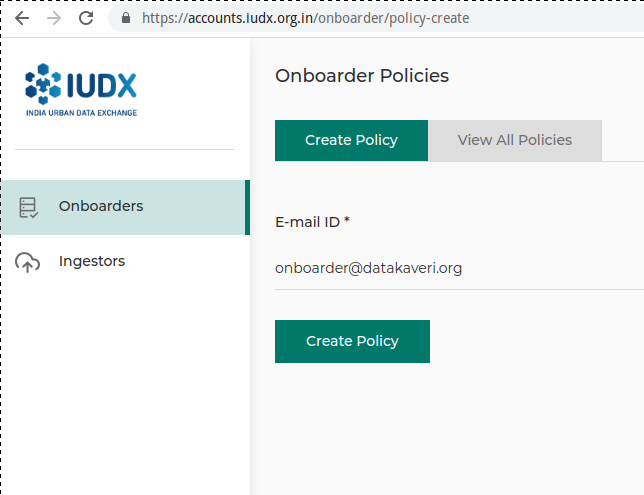
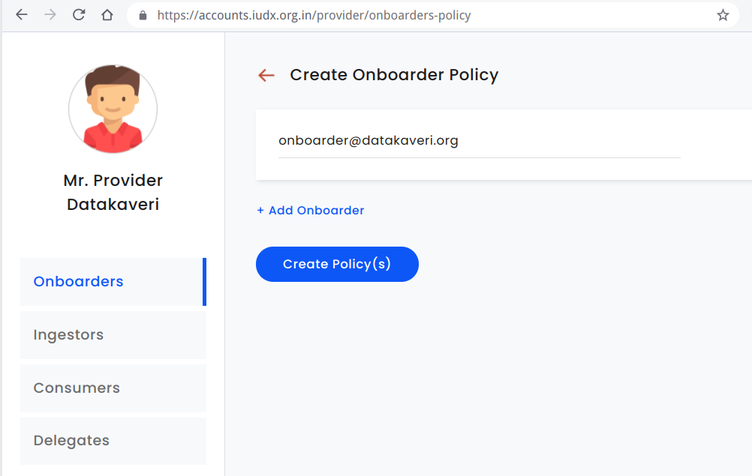
Updates for 2.5 + UI

diff --git a/getting_started/auth/consumer.md b/getting_started/auth/consumer.md
@@ -1,7 +1,7 @@
 # Getting Started: Consumer
 
 ## Introduction
-The IUDX Auth Consumer API is used to obtain consumer certificates and authorization tokens. The certificate is used to uniquely identify a consumer and is issued by the IUDX Certificate Authority. It can be obtained from the Registration API. The authorization tokens are obtained using the certificate, by specifying the resources which the consumer wants to access, along with the capabilities. Both these API flows are specified below.
+The IUDX Auth Consumer API is used to obtain consumer certificates and authorization tokens. The certificate is used to uniquely identify a consumer and is issued by the IUDX Certificate Authority. It can be obtained from the Registration API. The authorization tokens are obtained using the certificate, by specifying the resources which the consumer wants to access, along with the capabilities. Both these API flows are specified below. A consumer may view the resources they have been granted access to and obtain tokens using the [Accounts Panel](https://accounts.iudx.org.in)
 
 ## Registration
 A new consumer must register ([Consumer Registration Panel](https://accounts.iudx.org.in/register)) with the IUDX platform with some basic identification details. These details include their name, email address and phone number. Additionally, they should also generate a Certificate Signing Request (CSR) and include that in the API call. This CSR is used to generate a signed certificate which will be delivered to the email address they have specified.
@@ -21,72 +21,67 @@ This will generate 2 files: `privkey.pem` and `csr.pem`. Please send the content
 
 **Warning**: Please ensure the `privkey.pem` is stored securely. Do not share it. If this file is lost, then a new CSR + certificate will need to be created.
 
-## Obtaining Token
-A token can be obtained using the certificate which the consumer during the registration flow. These tokens have to be scoped to specific IUDX Resource Groups and actions associated with them. This can be done by specifying the Resource Group ID and the Resource Server API endpoints that the consumer wants to access, in the [Token Request API](https://authdocs.iudx.org.in/#operation/post-auth-v1-token). Whether the token is granted or not is dependent on whether the resource group/API endpoint is secure, and what policies have been set by the provider for the consumer. The Resource Server API endpoints which are available are:
+## Adding certificate to the browser
 
-* Latest Data
-`/ngsi-ld/v1/entities/<resource_group_id>`
-* Temporal Data
-`/ngsi-ld/v1/temporal/entities`
-* Complex GET
-`/ngsi-ld/v1/entities`
-* Complex POST
-`/ngsi-ld/v1/entityOperations/query`
-* Subscription Data
-`/ngsi-ld/v1/subscription`
+In order to use the Consumer Dashboard, the certificate needs to be added to the browser. The Chrome browser is preferred.
 
-Once the token is obtained, it can be used to call the Resource Server APIs.
-
-### curl command for Token API
-
-The following curl command can be used to request a token. Ensure that the command in the directory containing your certificate and private-key .PEM files. The `request` array can contain multiple objects that specify resource IDs and corresponding APIs for which access is desired. (For a token for access to the entire resource group, the resource group ID must be suffixed by `/*`)
+1. Convert the certificate and private key to the PKCS12 format, which is required to load it into the browser. To do this, make sure the private key and certificate files are in the same directory. Then run the following OpenSSL command, replacing <certificate file> with the name of the certificate file sent to you (e.g. cert.pem). When prompted for a password, you may add one, or just press Enter to leave the password blank.
 
 ```
-curl -XPOST https://authorization.iudx.org.in/auth/v1/token --cert <certificate-filename> --key <private-key-filename> -H 'content-type: application/json' -d "{
-   "request":[
-      {
-         "id":"<resource-id>",
-         "apis":[
-            <list-of-APIs-to-be-called-on-resource>
-         ]
-      }
-   ]
-}"
-
-```
-Example:
-
-```
-# Example Request
-
-curl -XPOST https://authorization.iudx.org.in/auth/v1/token --cert cert.pem --key private-key.pem -H 'content-type: application/json' -d "{
-   "request":[
-      {
-         "id":"datakaveri.org/04a15c9960ffda227e9546f3f46e629e1fe4132b/rs.iudx.org.in/pune-aqm/*",
-         "apis":[
-            "/ngsi-ld/v1/subscription"
-         ]
-      },
-      {
-         "id":"datakaveri.org/04a15c9960ffda227e9546f3f46e629e1fe4132b/rs.iudx.org.in/pune-flood/item-28819",
-         "apis":[
-            "/ngsi-ld/v1/entities",
-            "/ngsi-ld/v1/entities/datakaveri.org/04a15c9960ffda227e9546f3f46e629e1fe4132b/rs.iudx.org.in/pune-flood"
-         ]
-      }
-   ]
-}"
-
-# Example Response
-{
-    "token": "authorization.iudx.org.in/consumer@datakaveri.org/5d26f8526d75f5ed9407d7a808edac38",
-    "token-type": "IUDX",
-    "expires-in": 604800,
-    "is_token_valid": true,
-    "server-token": {
-        "rs.iudx.org.in": true
-    }
-}
-
+openssl pkcs12 -inkey privkey.pem -in <certificate file> -export -out certificate.p12
 ```
 
+2. Add the certificate.p12 file to the browser 
+    1. For Chrome in Linux -
+        1. Go to **Settings > Privacy and Security** and click **More**
+        2. Click the **Manage Certificates** option (Alternatively use the URL `chrome://settings/certificates` in the address bar)
+        3. Under the **Your Certificates** option, click **Import** and  to the `certificate.p12` file. Enter the password if you have set one
+
+		![Click Manage Certificates](../resources/auth/chrome-lin1.png)<br>
+		*Click Manage Certificates in the Privacy and Security tab in Chrome settings*
+
+		![Click Import](../resources/auth/chrome-lin2.png)<br>
+		*Import the certificate under the 'Your Certificates' option*
+
+    2. For Chrome in Windows -
+        1. Go to **Settings > Privacy and Security** and click **Security**
+        2. Click the **Manage Certificates** option
+        3. Under the **Personal** option, click Import and then click next when shown the **Certificate Import Wizard**, Click on browse and navigate to the `certificate.p12` file. Enter the password if you have set one
+        
+        ![Click Manage Certificates](../resources/auth/chrome-win1.png)<br>
+		*Click Manage Certificates in the Privacy and Security tab in Chrome settings*
+
+		![Use the Windows Certificate Import Wizard](../resources/auth/chrome-win2.png)<br>
+		*Use the Windows Certificate Import Wizard to import your certificate*
+		
+		![Click Import](../resources/auth/chrome-win3.png)<br>
+		*Click Import under the 'Personal' option*
+
+    3. For Chrome in Mac OS, you can follow the instructions in [this](https://www.digicert.com/kb/managing-client-certificates.htm#chrome_import_cert_2) link
+
+After this, when going to the [Accounts Panel](https://accounts.iudx.org.in), the certificate dialog will appear. Once the correct certificate is chosen, you will be prompted to enter the Provider Dashboard.
+
+![Choose the certificate and click OK](../resources/auth/cert-dialog.png)<br>
+*Dialog to choose certificate in Chrome*
+
+![Prompt to enter Consumer Dashboard](../resources/auth/login-cons.png)<br>
+*Prompt to enter Consumer Dashboard*
+
+**If a certificate is not chosen, then the API may not be called correctly. You will have to restart your browser, or open an Incognito/Private session and try again.**
+
+## View Resources and get Tokens
+
+A Consumer may view the resources and capabilities they have been given access to by various Providers. API access (temporal search, attribute search, complex queries, latest data etc.) or subscription can be granted. Consumers may select resources to generate a token.
+
+![View resources that consumer has access to](../resources/auth/view-resources.png)<br>
+*View resources that consumer has access to*
+
+![Generate token for selected resources](../resources/auth/get-token.png)<br>
+*Generate token for selected resources*
+
+A Consumer may also view their issued tokens (each token is identified by the UUID). For more details on the _status_ of the token and associated resources, please read the documentation for the [GET /auth/v1/token API](https://authdocs.iudx.org.in/v2.5/#operation/get-auth-v1-token)
+
+![Generate token for selected resources](../resources/auth/view-tokens.png)<br>
+*Generate token for selected resources*
+
+For additional token operations, please read the [documentation](https://authdocs.iudx.org.in/v2.5).

diff --git a/getting_started/auth/producer.md b/getting_started/auth/producer.md
@@ -2,11 +2,11 @@
 
 ## Introduction
 
-The IUDX Auth Provider API is used to obtain provider certificates and authorization tokens. The certificate is used to uniquely identify a provider and is issued by the IUDX Certificate Authority through the Registration API. Using the certificate, a provider can manage access to the secure resources they own and audit the access tokens issued for their resources. (Providers Panel)
+The IUDX Auth Provider API is used to obtain provider certificates and authorization tokens. The certificate is used to uniquely identify a provider and is issued by the IUDX Certificate Authority through the Registration API. Using the certificate, a provider can manage access to the secure resources they own via the [Accounts Panel](https://accounts.iudx.org.in)
 
 ## Registration
 
-The IUDX Admin team will initiate a provider registration by first creating an entry for the provider’s organization. A new provider must then register ([Registration Panel](accounts.iudx.org.in/register)) with the IUDX platform with some basic identification details. These details include their name, organization email address and phone number. Additionally, they should also generate a Certificate Signing Request (CSR) and include that in the API call. This CSR is used to generate a signed certificate which will be delivered to the email address they have specified, after their registration request has been approved by the IUDX Admin team.
+The IUDX Admin team will initiate a provider registration by first creating an entry for the provider's organization. A new provider must then register ([Registration Panel](https://accounts.iudx.org.in/register)) with the IUDX platform with some basic identification details. These details include their name, organization email address and phone number. Additionally, they should also generate a Certificate Signing Request (CSR) and include that in the API call. This CSR is used to generate a signed certificate which will be delivered to the email address they have specified, after their registration request has been approved by the IUDX Admin team.
 
 ![Provider registration](../resources/auth/prov-reg.png)<br>
 *Provider registration*
@@ -24,7 +24,7 @@ This will generate 2 files: `privkey.pem` and `csr.pem` a private key file and a
 
 ## Adding certificate to the browser
 
-In order to use the UI, the certificate needs to be added to the browser. The Chrome browser is preferred.
+In order to use the Provider Panel, the certificate needs to be added to the browser. The Chrome browser is preferred.
 
 1. Convert the certificate and private key to the PKCS12 format, which is required to load it into the browser. To do this, make sure the private key and certificate files are in the same directory. Then run the following OpenSSL command, replacing <certificate file> with the name of the certificate file sent to you (e.g. cert.pem). When prompted for a password, you may add one, or just press Enter to leave the password blank.
 
@@ -60,18 +60,45 @@ openssl pkcs12 -inkey privkey.pem -in <certificate file> -export -out certificat
 
     3. For Chrome in Mac OS, you can follow the instructions in [this](https://www.digicert.com/kb/managing-client-certificates.htm#chrome_import_cert_2) link
 
-After this, when using any Provider API a dialog will be triggered in the browser to choose a certificate. Choose a certificate and click OK.
+After this, when going to the [Accounts Panel](https://accounts.iudx.org.in), the certificate dialog will appear. Once the correct certificate is chosen, you will be prompted to enter the Provider Dashboard.
 
 ![Choose the certificate and click OK](../resources/auth/cert-dialog.png)<br>
 *Dialog to choose certificate in Chrome*
 
+![Prompt to enter Provider Dashboard](../resources/auth/login-prov.png)<br>
+*Prompt to enter Provider Dashboard*
+
 **If a certificate is not chosen, then the API may not be called correctly. You will have to restart your browser, or open an Incognito/Private session and try again.**
+
+## Manage Policies
+A provider can create, view and delete access policies set for data ingesters, onboarders, delegates and consumers.
+
+![Policies set for onboarders](../resources/auth/view-onboarder.png)<br>
+*View policies set for onboarders*
+
+
+![Policies set for data ingesters](../resources/auth/view-ingester.png)<br>
+*View policies set for data ingesters*
+
+
+![Policies set for consumers](../resources/auth/view-consumer.png)<br>
+*View policies set for consumers*
+
+
+![Policies set for delegates](../resources/auth/view-delegate.png)<br>
+*View policies set for delegates*
  
 ## Onboarder Access
 A provider can delegate the responsibility of creating IUDX Catalogue entries for their resources to an Onboarder, who has pre registered with IUDX. Once an Onboarder has been granted access, they can obtain an access token with which they can create and modify Catalogue entries for resources under the Provider account.
 
 ![Add an onboarder policy](../resources/auth/access-ob.png)<br>
 *Add an onboarder policy*
+
+## Delegate Access
+A provider can delegate the responsibility of creating, updating and deleting policies to a Delegate, who has pre registered with IUDX. Once a Delegate has been granted access, they may log onto the Provider Panel and manage policies on behalf of the Provider.
+
+![Add a delegate policy](../resources/auth/access-dele.png)<br>
+*Add a delegate policy*
 
 ## Data Ingester Access
 A provider can also delegate the responsibility of uploading resources to the IUDX Resource Server to an Data Ingester, who has preregistered with IUDX. Once a Data Ingester has been granted access, they can obtain an access token with which they can configure the Adapter to interface with the IUDX Resource Server.
@@ -80,21 +107,8 @@ A provider can also delegate the responsibility of uploading resources to the IU
 *Add an data ingester policy*
 
 ## Consumer Access
-A provider can grant access to consumers for the resources they own. This is done by specifying the consumer email address and which capabilities should be enabled for them. The three capabilities available are: Temporal, Complex and Subscription.
+A provider can grant access to consumers for the resources they own. This is done by specifying the consumer email address and whether API access (temporal search, attribute search, complex queries, latest data etc.) or Subscription access is to be granted for a particular resource.
 
 ![Add a consumer policy](../resources/auth/access-co.png)<br>
 *Add a consumer policy*
 
-## View Policies
-A provider can also view all policies currently set for data ingesters, onboarders and consumers.
-
-![View policies set for onboarders](../resources/auth/view-onboarder.png)<br>
-*View policies set for onboarders*
-
-
-![View policies set for data ingesters](../resources/auth/view-ingester.png)<br>
-*View policies set for data ingesters*
-
-
-![View policies set for consumers](../resources/auth/view-consumer.png)<br>
-*View policies set for consumers*
